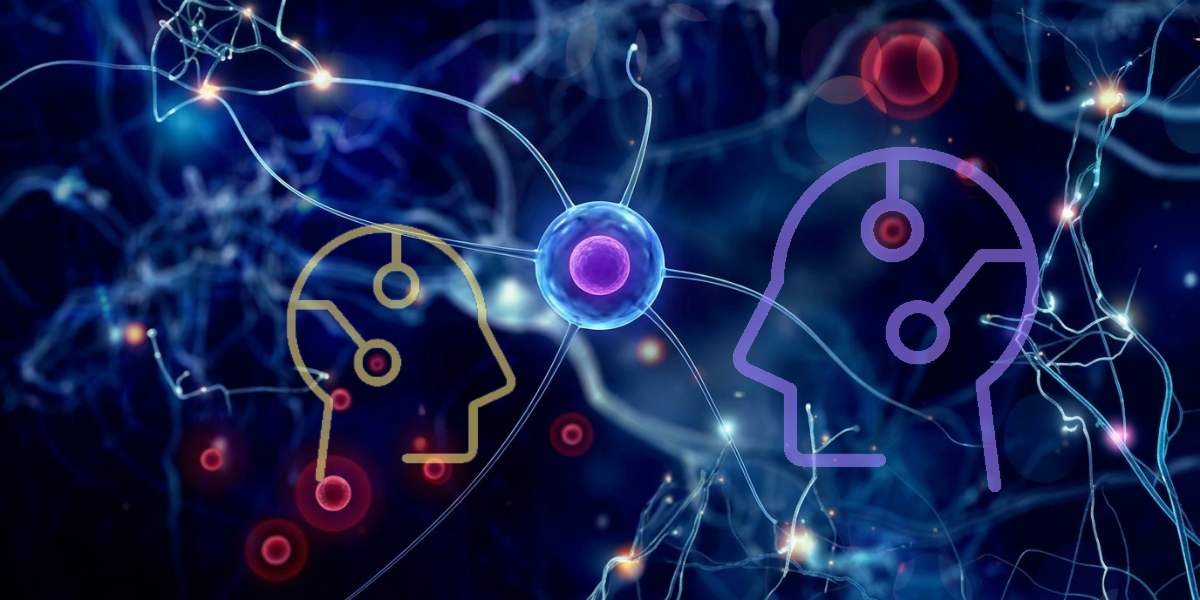
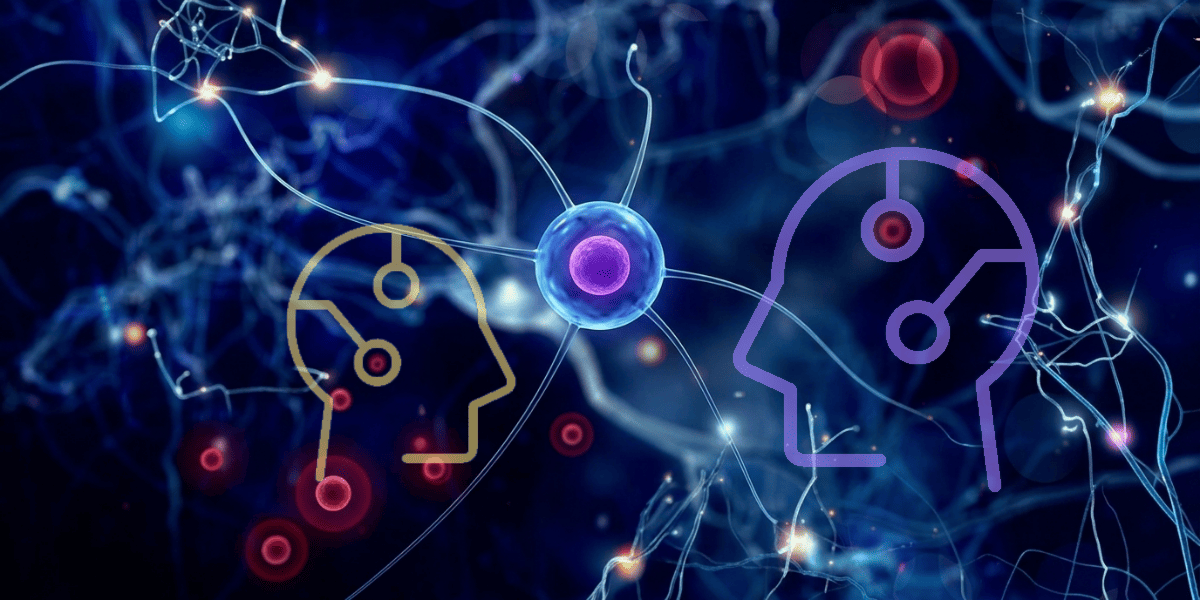
landing: link rag/reports demos to live hosts; compress og-cover (320KB); add og:image dimensions

diff --git a/landing/index.html b/landing/index.html
@@ -23,8 +23,9 @@
 <meta property="og:url" content="https://labs.mnemostroma.com/">
 <meta property="og:title" data-i18n-attr="content:meta.title" content="Labs Mnemostroma — live AI automation you can run before you buy">
 <meta property="og:description" data-i18n-attr="content:meta.description" content="Working AI pipelines for documents, requests and CRM.">
-<!-- PLACEHOLDER-IMAGE: og-cover 1200x630 — тёмно-фиолетовый фон, слева wordmark LABS, справа pipeline-лента с подсвеченным оранжевым шагом "Awaiting approval" -->
 <meta property="og:image" content="https://labs.mnemostroma.com/assets/og-cover.png">
+<meta property="og:image:width" content="1200">
+<meta property="og:image:height" content="600">
 <meta name="twitter:card" content="summary_large_image">
 
 <meta name="theme-color" content="#14101E" media="(prefers-color-scheme: dark)">
@@ -293,7 +294,7 @@
         <h3 class="h4" data-i18n="demos.d3.t">Answers with sources</h3>
         <p data-i18n="demos.d3.d">Ask your own documents. Every answer returns file, page and fragment — or an explicit "not confirmed in the base".</p>
         <p class="meta"><span data-i18n="demos.in">In</span>: docs, price lists, SOPs · <span data-i18n="demos.out">Out</span>: answer + citations</p>
-        <a class="btn btn--ghost btn--sm" href="#" data-href-todo="LINK: /demos/rag" data-i18n="cta.try">Try it</a>
+        <a class="btn btn--ghost btn--sm" href="https://rag-labs.mnemostroma.com" data-i18n="cta.try">Try it</a>
       </article>
 
       <article class="card card--demo" data-demo="report">
@@ -304,7 +305,7 @@
         <h3 class="h4" data-i18n="demos.d4.t">Quote &amp; report builder</h3>
         <p data-i18n="demos.d4.d">A table or a request card in — a branded PDF and an email draft out. Generation is one deliberate click, never automatic.</p>
         <p class="meta"><span data-i18n="demos.in">In</span>: sheet link, request card · <span data-i18n="demos.out">Out</span>: PDF + draft mail</p>
-        <a class="btn btn--ghost btn--sm" href="#" data-href-todo="LINK: /demos/reports" data-i18n="cta.try">Try it</a>
+        <a class="btn btn--ghost btn--sm" href="https://pdf-labs.mnemostroma.com" data-i18n="cta.try">Try it</a>
       </article>
 
       <article class="card card--demo" data-demo="crm">
@@ -640,8 +641,8 @@
       <h4 class="ftr__h" data-i18n="ftr.demos">Demos</h4>
       <a href="#" data-href-todo="LINK: /demos/dispatcher" data-i18n="demos.d1.t">Request dispatcher</a>
       <a href="#" data-href-todo="LINK: /demos/extraction" data-i18n="demos.d2.t">Document extraction</a>
-      <a href="#" data-href-todo="LINK: /demos/rag" data-i18n="demos.d3.t">Answers with sources</a>
-      <a href="#" data-href-todo="LINK: /demos/reports" data-i18n="demos.d4.t">Quote &amp; report builder</a>
+      <a href="https://rag-labs.mnemostroma.com" data-i18n="demos.d3.t">Answers with sources</a>
+      <a href="https://pdf-labs.mnemostroma.com" data-i18n="demos.d4.t">Quote &amp; report builder</a>
     </nav>
 
     <nav class="ftr__col" aria-label="Company">
